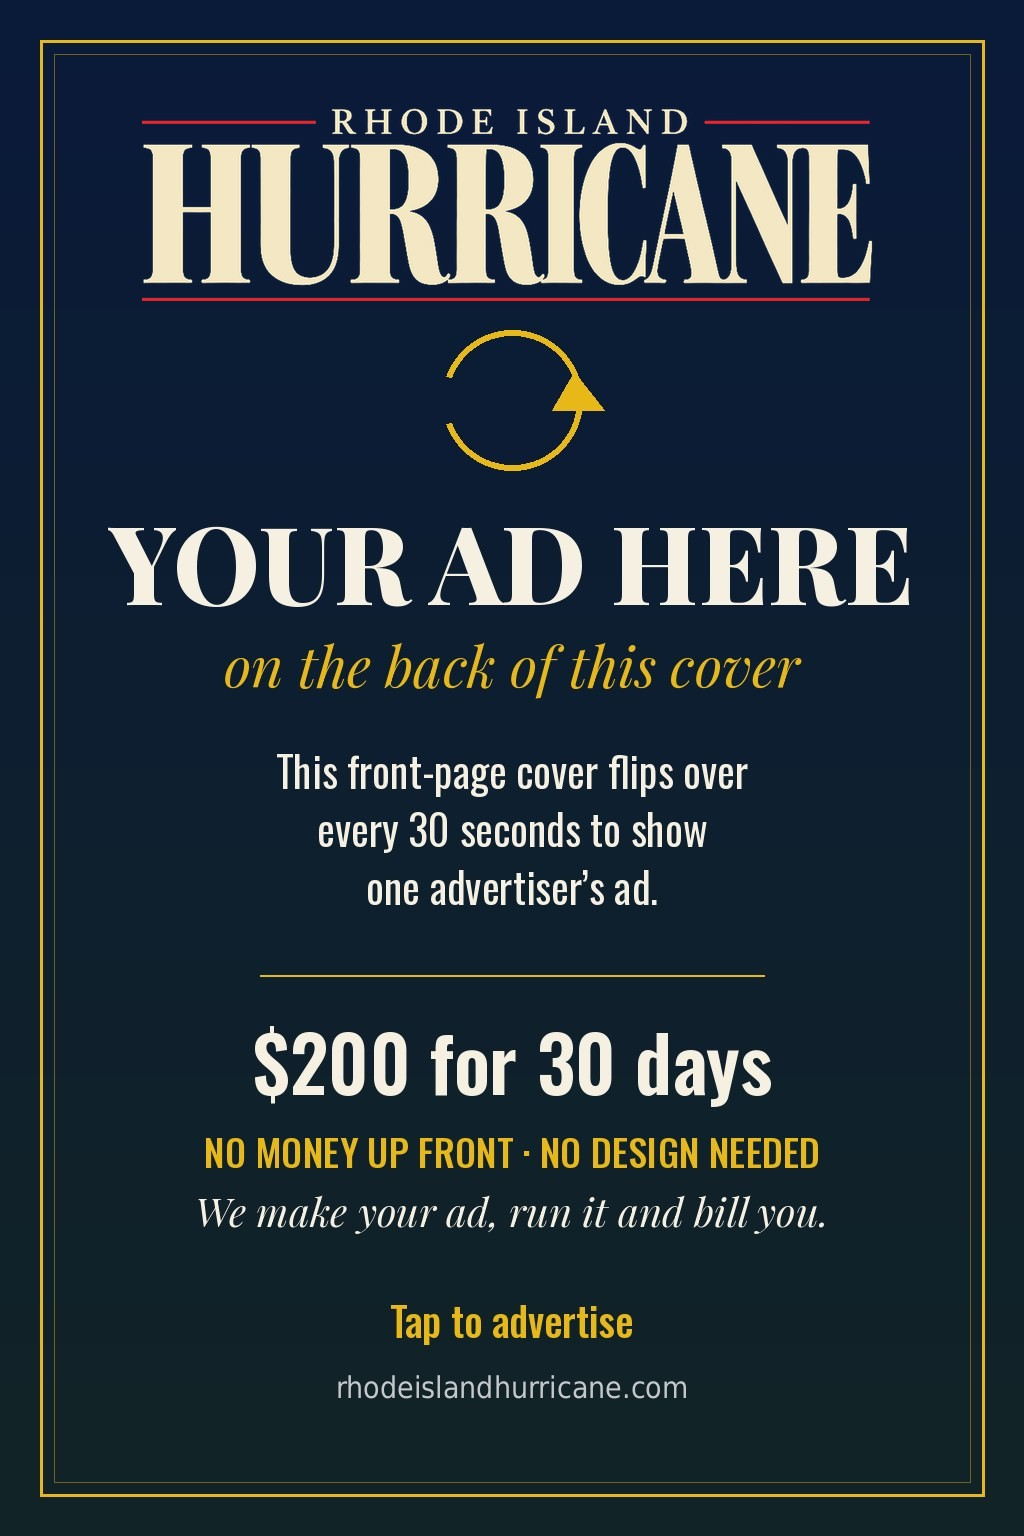
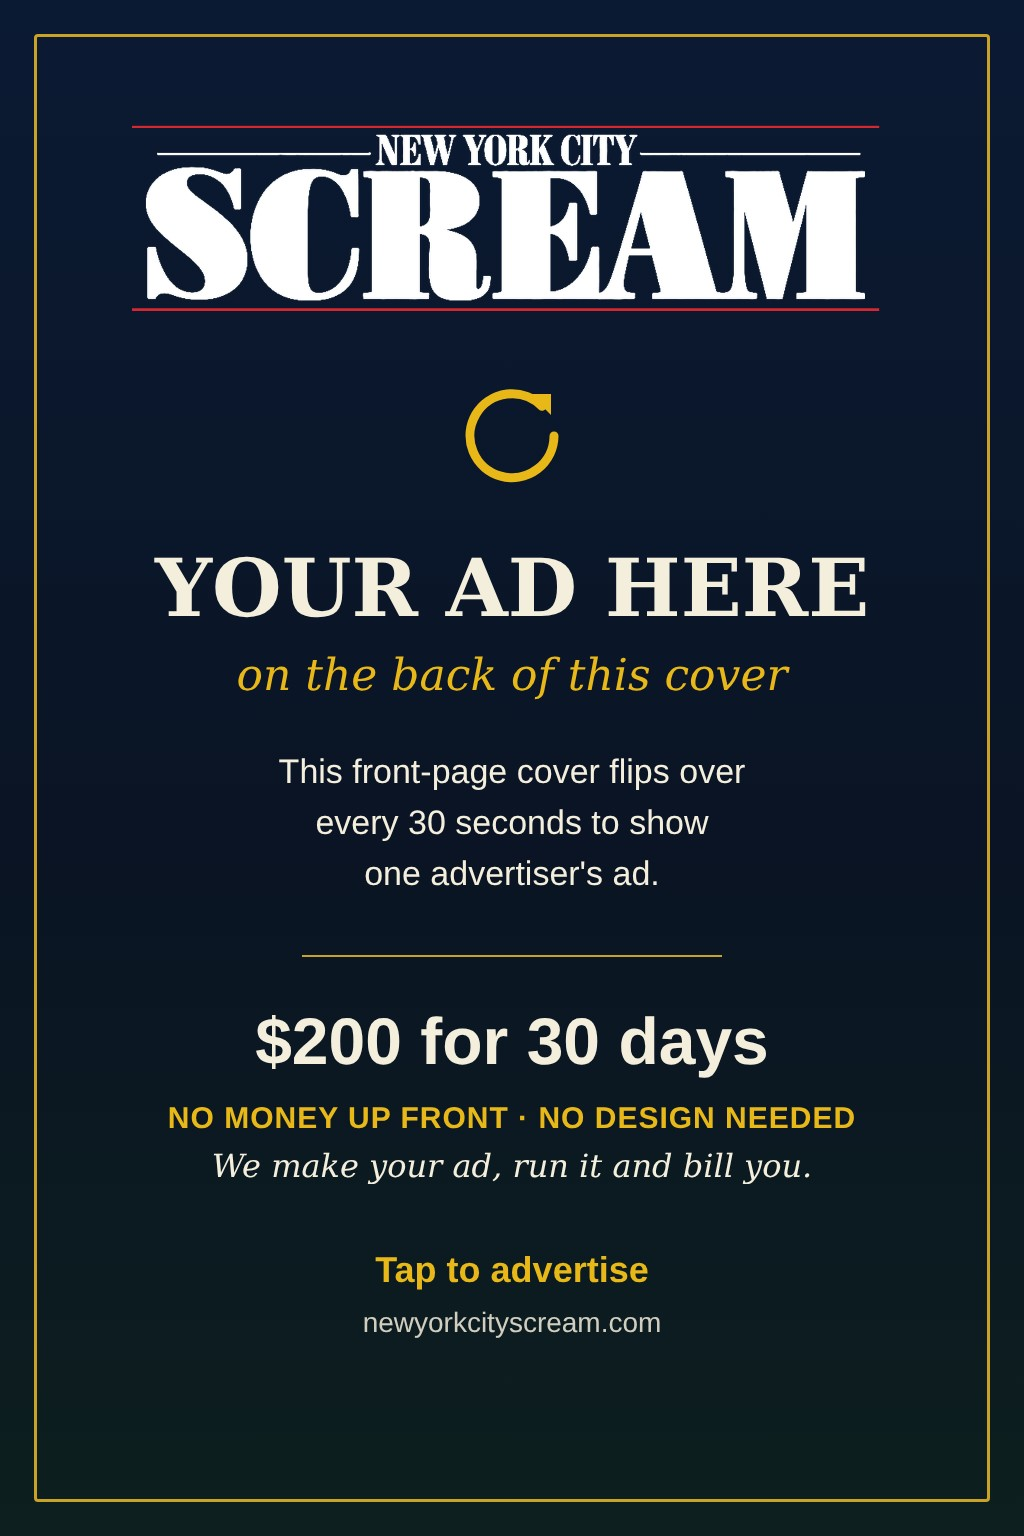
Featured venue ads; own back cover and inside cover ads
Claude-Session: https://claude.ai/code/session_01Rvhfw57S8LJQmjjH2L4ZDg

diff --git a/index.html b/index.html
@@ -2467,7 +2467,7 @@ document.readyState==="loading"?document.addEventListener("DOMContentLoaded",()=
 const H=/^(the wire · nightlife|the wire|shows this week|tech & ai wire|scene picks|band watch|venue desk)/i;
 const go=()=>{document.querySelectorAll('#view section.box').forEach(s=>{const b=s.querySelector('.bh b');const g=s.querySelector('.vguide');if((b&&H.test(b.textContent.trim()))||g)s.style.display='none'});document.querySelectorAll('#view .front').forEach(f=>{const st=f.querySelector(':scope>.stack');if(st&&![...st.children].some(c=>c.offsetHeight>0)){st.style.display='none';f.style.gridTemplateColumns='minmax(0,1fr)'}})};
 const V=()=>document.getElementById('view');const st=()=>{const v=V();if(!v)return setTimeout(st,200);go();new MutationObserver(go).observe(v,{childList:true,subtree:true})};
-document.readyState==='loading'?document.addEventListener('DOMContentLoaded',st):st()})();</script><script id="backCover">(()=>{const BK='img/back-cover-ad.jpg?v=5';new Image().src=BK;
+document.readyState==='loading'?document.addEventListener('DOMContentLoaded',st):st()})();</script><script id="backCover">(()=>{const BK='img/back-cover-ad.jpg?v=9';new Image().src=BK;
 const st=document.createElement('style');st.textContent='.cvr .cimg .cback{position:absolute;inset:0;display:none;z-index:6;cursor:pointer;background:#0b1a38}.cvr .cimg .cback img{display:block;width:100%;height:100%;object-fit:cover;animation:none!important;transform:none!important}.cvr .cimg.back .cback{display:block}';document.head.appendChild(st);
 const vidOn=()=>{const v=document.getElementById('irBox');return v&&getComputedStyle(v).display!=='none'&&getComputedStyle(v).opacity!=='0'};
 let busy=false;
@@ -2542,7 +2542,7 @@ function openBook(){const b=document.querySelector('.cvr .cimg');if(!b||busy||do
  busy=true;if(getComputedStyle(cv).position==='static')cv.style.position='relative';
  const r=b.getBoundingClientRect(),c=cv.getBoundingClientRect();const L=r.left-c.left,T=r.top-c.top,w=Math.min(r.width*2,c.right-r.left);
  const s=document.createElement('div');s.className='bkSpread';s.style.cssText='position:absolute;left:'+L+'px;top:'+T+'px;width:'+w+'px;height:'+r.height+'px;z-index:3;display:flex;opacity:0;transition:opacity .5s ease;cursor:pointer;box-shadow:0 18px 40px rgba(0,0,0,.7);border-radius:6px;overflow:hidden';
- s.innerHTML='<img src="img/inside-cover-ad.jpg?v=3" alt="Inside front cover ad space" style="width:50%;height:100%;object-fit:cover;display:block"><img src="img/page-one-ad.jpg?v=3" alt="Page one ad space" style="width:50%;height:100%;object-fit:cover;display:block">';
+ s.innerHTML='<img src="img/inside-cover-ad.jpg?v=9" alt="Inside front cover ad space" style="width:50%;height:100%;object-fit:cover;display:block"><img src="img/page-one-ad.jpg?v=3" alt="Page one ad space" style="width:50%;height:100%;object-fit:cover;display:block">';
  s.addEventListener('click',e=>{if(e.target.closest('.frzC'))return;e.preventDefault();e.stopPropagation();if(e.target.closest('.frzX')){frozen=false;unbar();close();return}if(e.target.closest('.frzP')){frozen=!frozen;bar(s);return}if(e.target.closest('.frzA')||frozen){frozen=false;unbar();close();setTimeout(()=>{try{go('advertise')}catch(_){}},50);return}frozen=true;bar(s)});
  cv.appendChild(s);bar(s);b.style.position='relative';b.style.zIndex='8';b.style.transformOrigin='0 50%';
  requestAnimationFrame(()=>{s.style.opacity='1';b.style.transition='transform 1.1s cubic-bezier(.5,.05,.3,1),opacity .3s ease .8s';b.style.transform='perspective(1600px) rotateY(-110deg)';b.style.opacity='0'});
@@ -2752,6 +2752,8 @@ html body .lsrow .lspot.hasad{height:auto!important;min-height:0!important;max-h
    To add one: put it in ADS with its start date; it goes to the top. Ads drop off after their end date. */
 (function(){
 const ADS=[
+{img:'img/ad-carnegie-hall.jpg',href:'https://www.carnegiehall.org',label:'Featured: Carnegie Hall, 881 Seventh Avenue',start:'2026-10-30',end:'2026-11-29'},
+{img:'img/ad-blue-note.jpg',href:'https://www.bluenotejazz.com',label:'Featured: Blue Note Jazz Club, 131 West 3rd Street',start:'2026-10-30',end:'2026-11-29'},
  {img:'img/ad-eric-maluk.jpg',href:'https://www.rate.com/ericmaluk',label:'Advertisement: Eric Maluk, Rate. Visit his page or call (401) 254-4403',start:'2026-10-20',end:'2026-11-19'}];
 const live=()=>ADS.filter(a=>!a.end||Date.now()<Date.parse(a.end+'T23:59:59-05:00')).sort((x,y)=>y.start.localeCompare(x.start));
 const boxes=()=>[...document.querySelectorAll('.lsrow .lspot')].filter(b=>!b.hidden&&b.getBoundingClientRect().width>0).sort((x,y)=>{const r=x.getBoundingClientRect(),s=y.getBoundingClientRect();return (r.top-s.top)||(r.left-s.left)});
